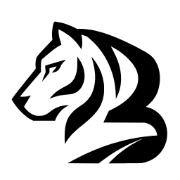
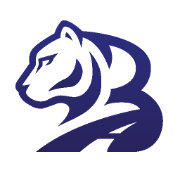
Новый логотип и фавиконки: знак с обводкой + фирменная надпись
Знак и надпись взяты из нового макета (logo_cropped и letters_cropped):
знак обрезан по границам рисунка вместе с белой обводкой, надпись — двумя
кадрами: строка «ТЛК БАРС» для шапки и полный блок с тагланом для подвала.
Для ультрамаринового фона собраны версии -on-brand: надпись перекрашена в
белый по доле фирменных чернил в пикселе (антиалиасинг не рвётся), знак
идёт как есть — обводка отделяет его от синего.

Старые SVG-логотипы удалены, макрос logo() получил параметр full и теперь
ссылается на PNG. JSON-LD Organization и Article переведены на logo.png —
вертикальный лок-ап со знаком и надписью.

Фавиконки заменены новым пакетом: ico, 16/32 png, apple-touch (сведён на
белый — iOS подкладывает под прозрачность чёрный), иконки манифеста.
favicon.svg убран вместе со ссылкой: из растрового макета его не собрать,
остаются ico и png.

На узких экранах лок-ап дополнительно уменьшен: новая надпись на 6% шире
прежней и на 320px шапка переполнялась.

Claude-Session: https://claude.ai/code/session_01FawgvbU5GSg54VWRQ5kYcM

diff --git a/PROJECT-MAP.md b/PROJECT-MAP.md
@@ -264,7 +264,7 @@ base.njk  (весь <head>, SEO, Organization JSON-LD, аналитика, cooki
 | `icon.njk` | Макрос `icon(name, class)` — Lucide-иконки инлайновым SVG (`currentColor`), цепочка `if/elif` по ~55 именам. |
 | `brand-icon.njk` | Макрос `brandIcon(name, class)` — глифы логотипов Telegram и Макса одним цветом (`currentColor`), контуры из официальных SVG. |
 | `messengers.njk` | Макрос `messengers(size, ringOffset, grow, long)` — пара кнопок «Telegram» и «Макс» (разные сервисы, разные ссылки: `site.telegram` и `site.max`). Импортируется **с контекстом**. |
-| `logo.njk` | Макрос `logo(variant)` — текстовый логотип-плейсхолдер (badge «Б» + «ТЛК БАРС»), варианты `light`/`dark`. |
+| `logo.njk` | Макрос `logo(variant, logoSrc, full)` — фирменный знак + надпись «ТЛК БАРС» (PNG из макета). Файлы `-on-brand` — версии для ультрамаринового фона; `full=true` даёт надпись с тагланом (подвал). |
 | `schema-organization.njk` | JSON-LD `Organization` (на каждой странице через base). |
 | `schema-breadcrumbs.njk` | JSON-LD `BreadcrumbList`. |
 | `schema-article.njk` | JSON-LD `Article`. |
